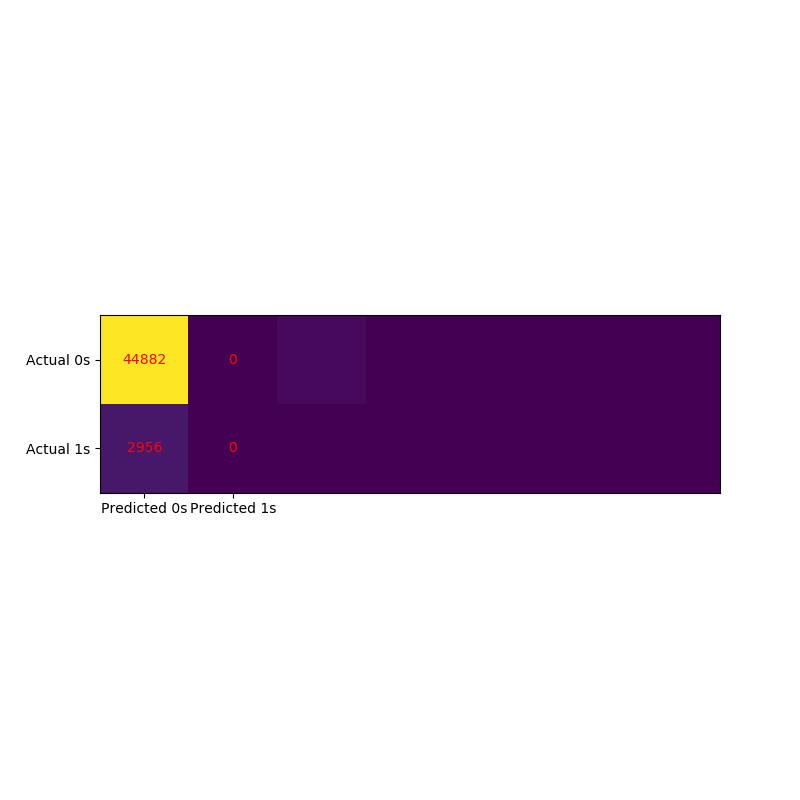
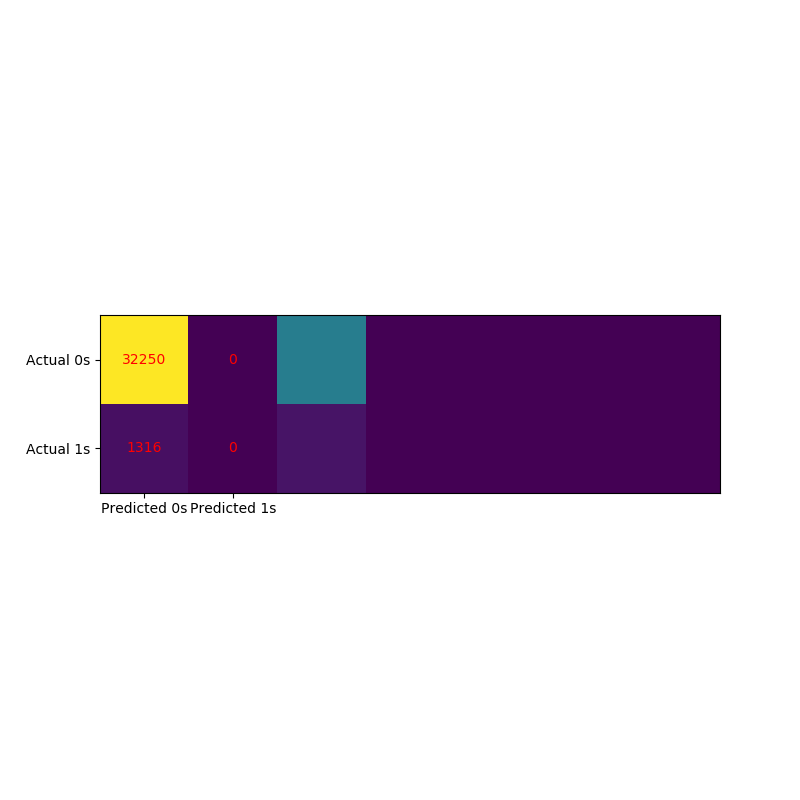
Update

Changed region(s): [[0.3438, 0.375, 0.4688, 0.5312], [0.1562, 0.4375, 0.2188, 0.4688], [0.1562, 0.5312, 0.1875, 0.5625]]

diff --git a/NewDataCode/functions.py b/NewDataCode/functions.py
@@ -17,7 +17,7 @@ from sklearn.metrics import accuracy_score
 from sklearn import preprocessing
 from sklearn.tree import export_graphviz
 # from tpot import TPOTClassifier
-from pygam import LinearGAM, s, f
+from pygam import LogisticGAM, s, f
 
 from subprocess import call
 from sklearn.metrics import roc_auc_score
@@ -168,17 +168,18 @@ def build_model(X_train,y_train,X_test,y_test,name,cross = 5,models = ['xgb']):
             Acc = balanced_accuracy_score(y_test,pred)*100
         # elif model1 == 'gam':
         #     lams = np.random.rand(X_train.shape[0], X_train.shape[1]) # random points on [0, 1], with shape (100, 3)
-        #     lams = lams * 8 - 3 # shift values to -3, 3
+        #     lams = lams * 8 - 15 # shift values to -3, 3
         #     lams = np.exp(lams) # transforms values to 1e-3, 1e3
         #     X_train.to_numpy()
         #     y_train.to_numpy()
         #     X_test.to_numpy()
         #     y_test.to_numpy()
-        #     random_gam =  LinearGAM(f(0) + f(1) + f(2) + f(3) + s(4) + f(5) + f(6) + f(7) + f(8) + f(9) + f(10) + s(11) + f(12) + f(13) + f(14) + s(15)+ s(16)+ s(17)+ s(18)+ s(19)+ s(20))
-        #     LinearGAM(n_splines=10).gridsearch(X_train.values, y_train.values)
-        #     random_gam.gridsearch(X_train, y_train, lam=lams)
-        #     print(random_gam.summary())
-        #     pred = random_gam.predict(X_test)
+        #     random_gam =  LogisticGAM(f(0) + f(1) + f(2) + f(3) + s(4) + f(5) + f(6) + f(7) + f(8) + f(9) + f(10) + s(11) + f(12) + f(13) + f(14) + s(15)+ s(16)+ s(17))
+        #     # model = LogisticGAM(n_splines=20)
+        #     # model.gridsearch(X_train.values, y_train.values)
+        #     random_gam.gridsearch(X_train.values, y_train.values, lam=lams)
+        #     print(model.summary())
+        #     pred = model.predict(X_test)
         #     print("Balanced Accuracy is ",balanced_accuracy_score(y_test,pred)*100)
         #     Acc = balanced_accuracy_score(y_test,pred)*100
         elif model1 == 'RandomForest':

diff --git a/NewDataCode/main.py b/NewDataCode/main.py
@@ -17,14 +17,14 @@ Building model to predict the acceptance/denial
 """
 
 orig_stdout = sys.stdout
-f = open('NewTestModelOut.txt', 'w')
+f = open('WithBalancingNewTestModelOut.txt', 'w')
 sys.stdout = f
 
 
 ColName = 'action_taken'
 data = get_data(ColName,nr = 100000)
-s1 = data[data[ColName] == 1]#.sample(n = np.minimum(data[data[ColName] == 1].shape[0],data[data[ColName] == 3].shape[0]))
-s2 = data[data[ColName] == 3]#.sample(n = np.minimum(data[data[ColName] == 1].shape[0],data[data[ColName] == 3].shape[0]))
+s1 = data[data[ColName] == 1].sample(n = np.minimum(data[data[ColName] == 1].shape[0],data[data[ColName] == 3].shape[0]))
+s2 = data[data[ColName] == 3].sample(n = np.minimum(data[data[ColName] == 1].shape[0],data[data[ColName] == 3].shape[0]))
 d = pd.concat([s1,s2])
 # d = data
 y_train = d[ColName]
@@ -50,8 +50,11 @@ tune_model(X_train,y_train,X_test,y_test,name = 'acceptance_denial_tuned',n_it =
 """
 ColName = 'denial_reason_1'
 data = get_data(ColName,nr = 100000,res = 1)
-s1 = data[data[ColName] == 1]#.sample(n = np.minimum(data[data[ColName] == 1].shape[0],data[data[ColName] == 3].shape[0]))
-s2 = data[data[ColName] == 3]#.sample(n = np.minimum(data[data[ColName] == 1].shape[0],data[data[ColName] == 3].shape[0]))
+s1 = data[data[ColName] == 1].sample(n = np.minimum(data[data[ColName] == 1].shape[0],data[data[ColName] == 3].shape[0]))
+s2 = data[data[ColName] == 3].sample(n = np.minimum(data[data[ColName] == 1].shape[0],data[data[ColName] == 3].shape[0]))
+test_data = get_data(ColName,nr = 100000,year = 2017,sk = 100000,res=1)
+X_test = test_data.drop(columns = [ColName])
+y_test = test_data[ColName]
 d = pd.concat([s1,s2])
 y_train = d[ColName]
 X_train = d.drop(columns = [ColName])
